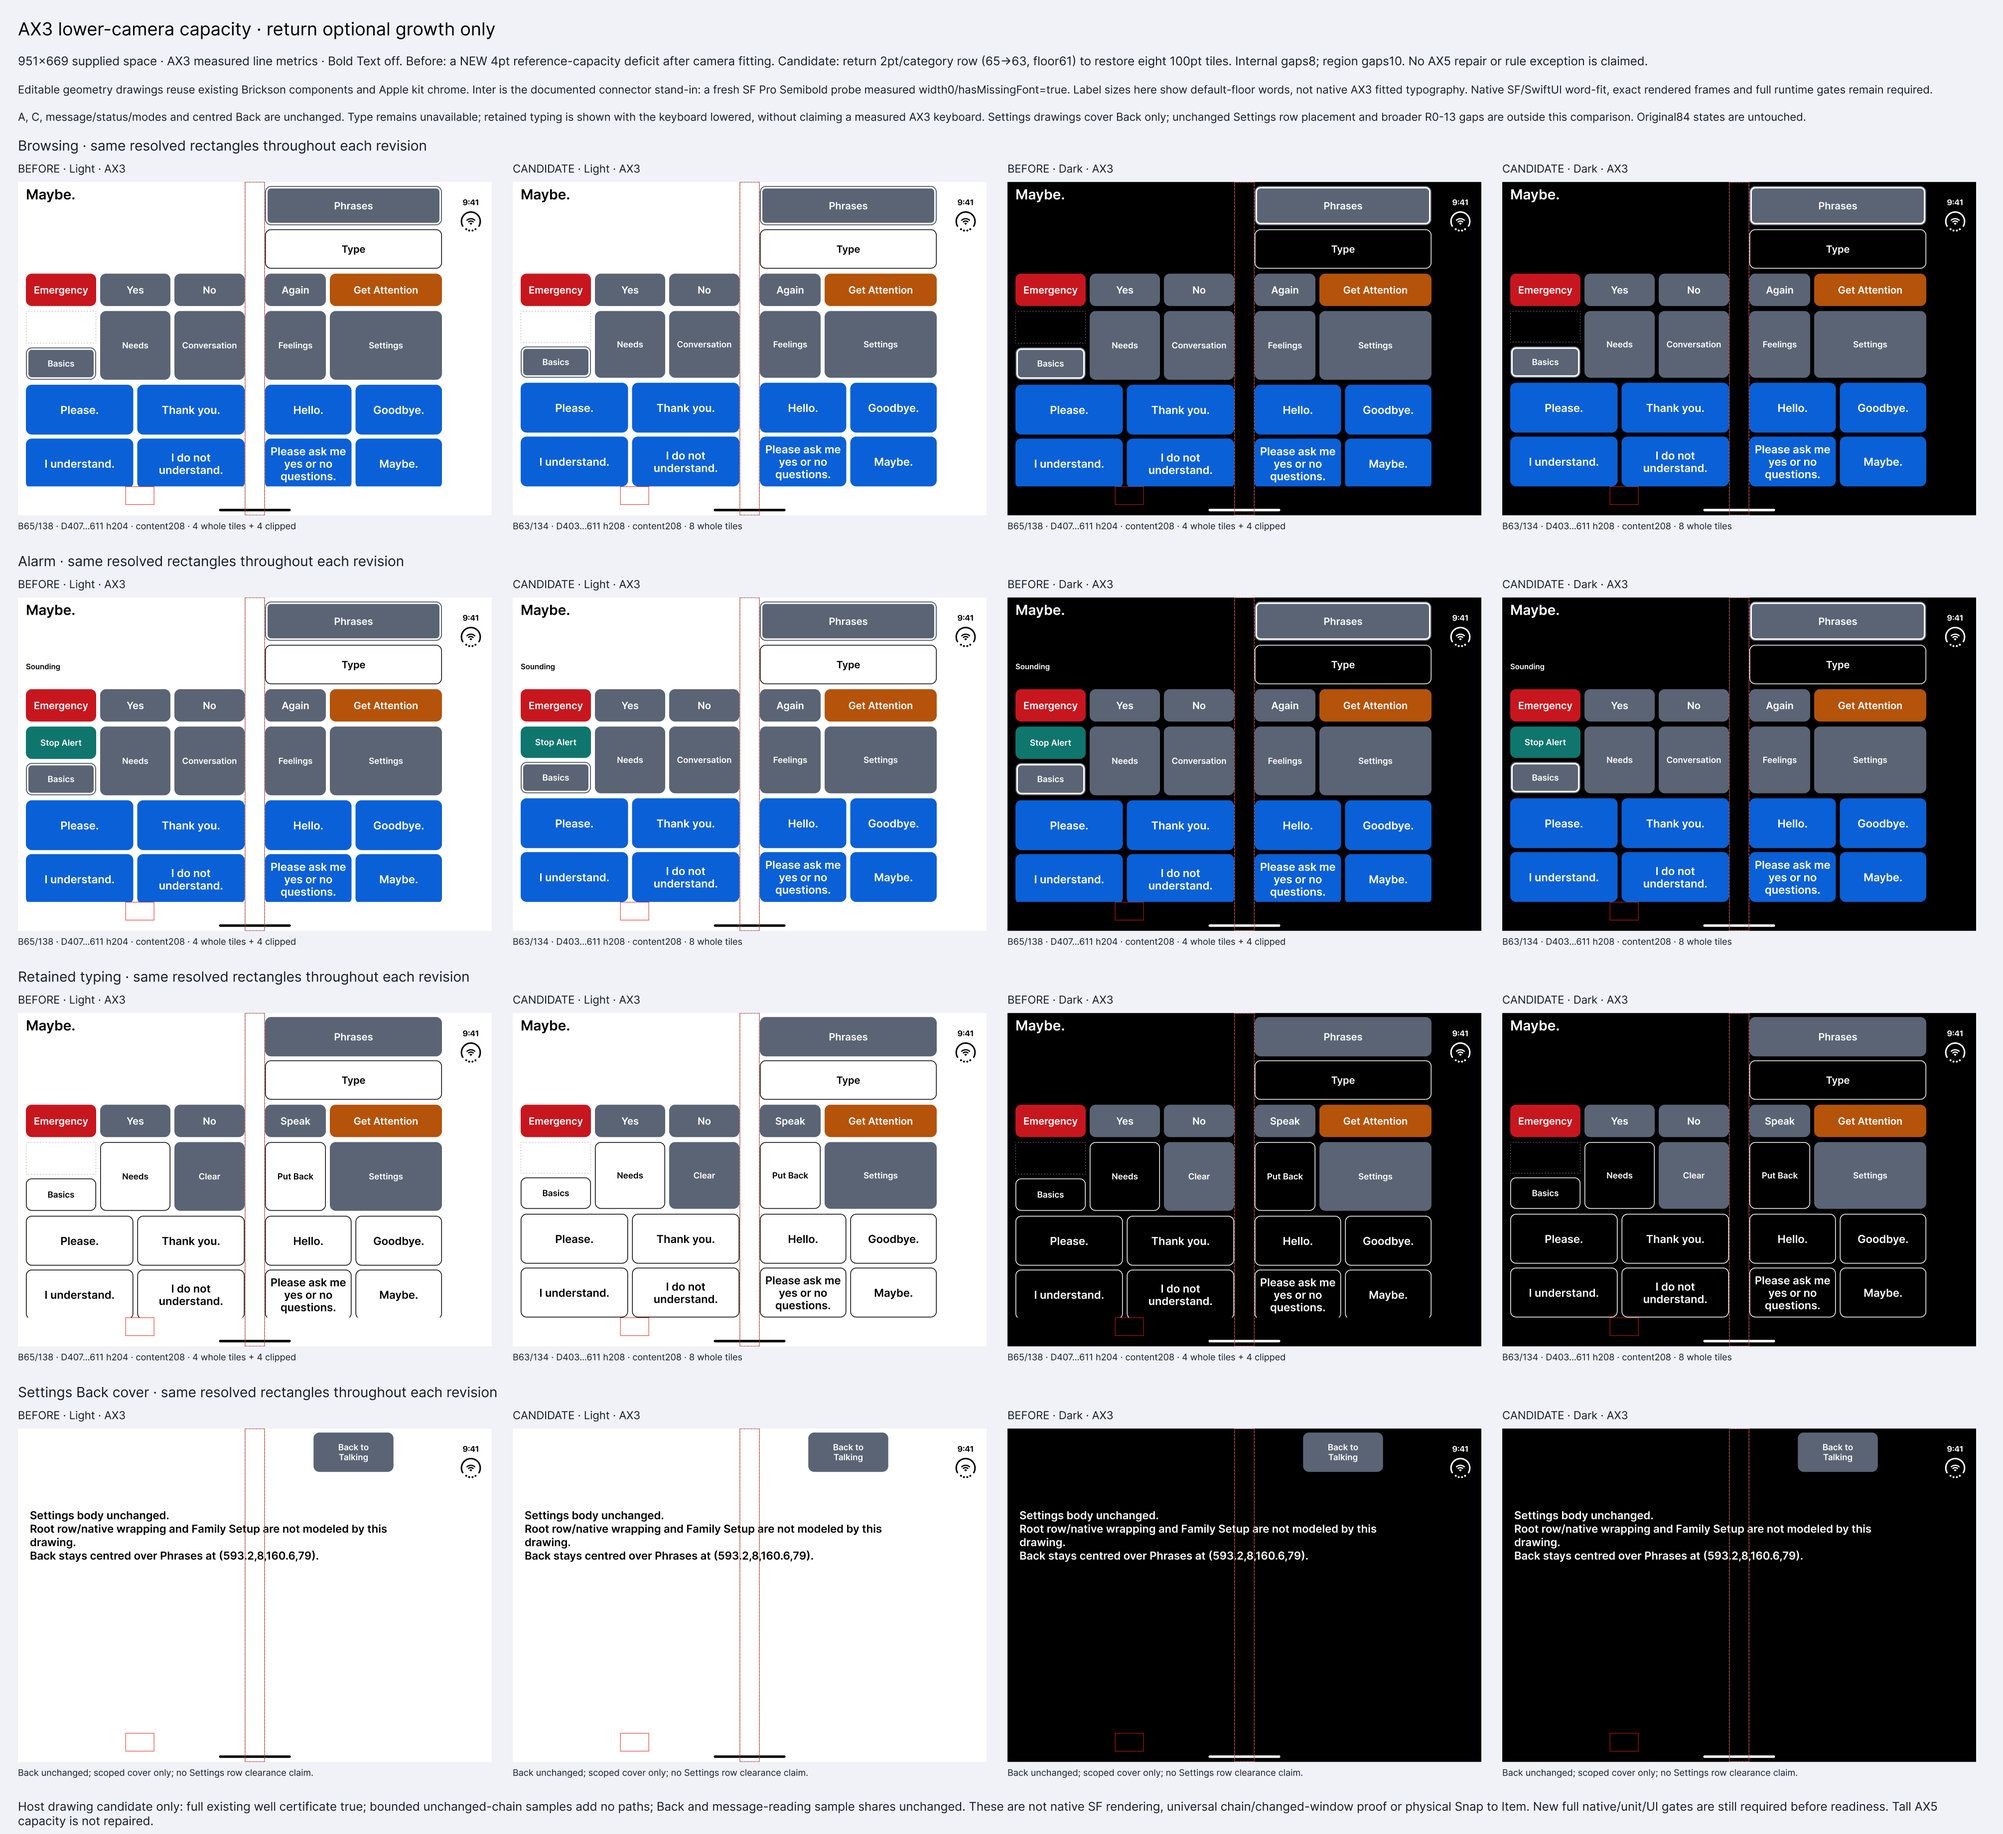
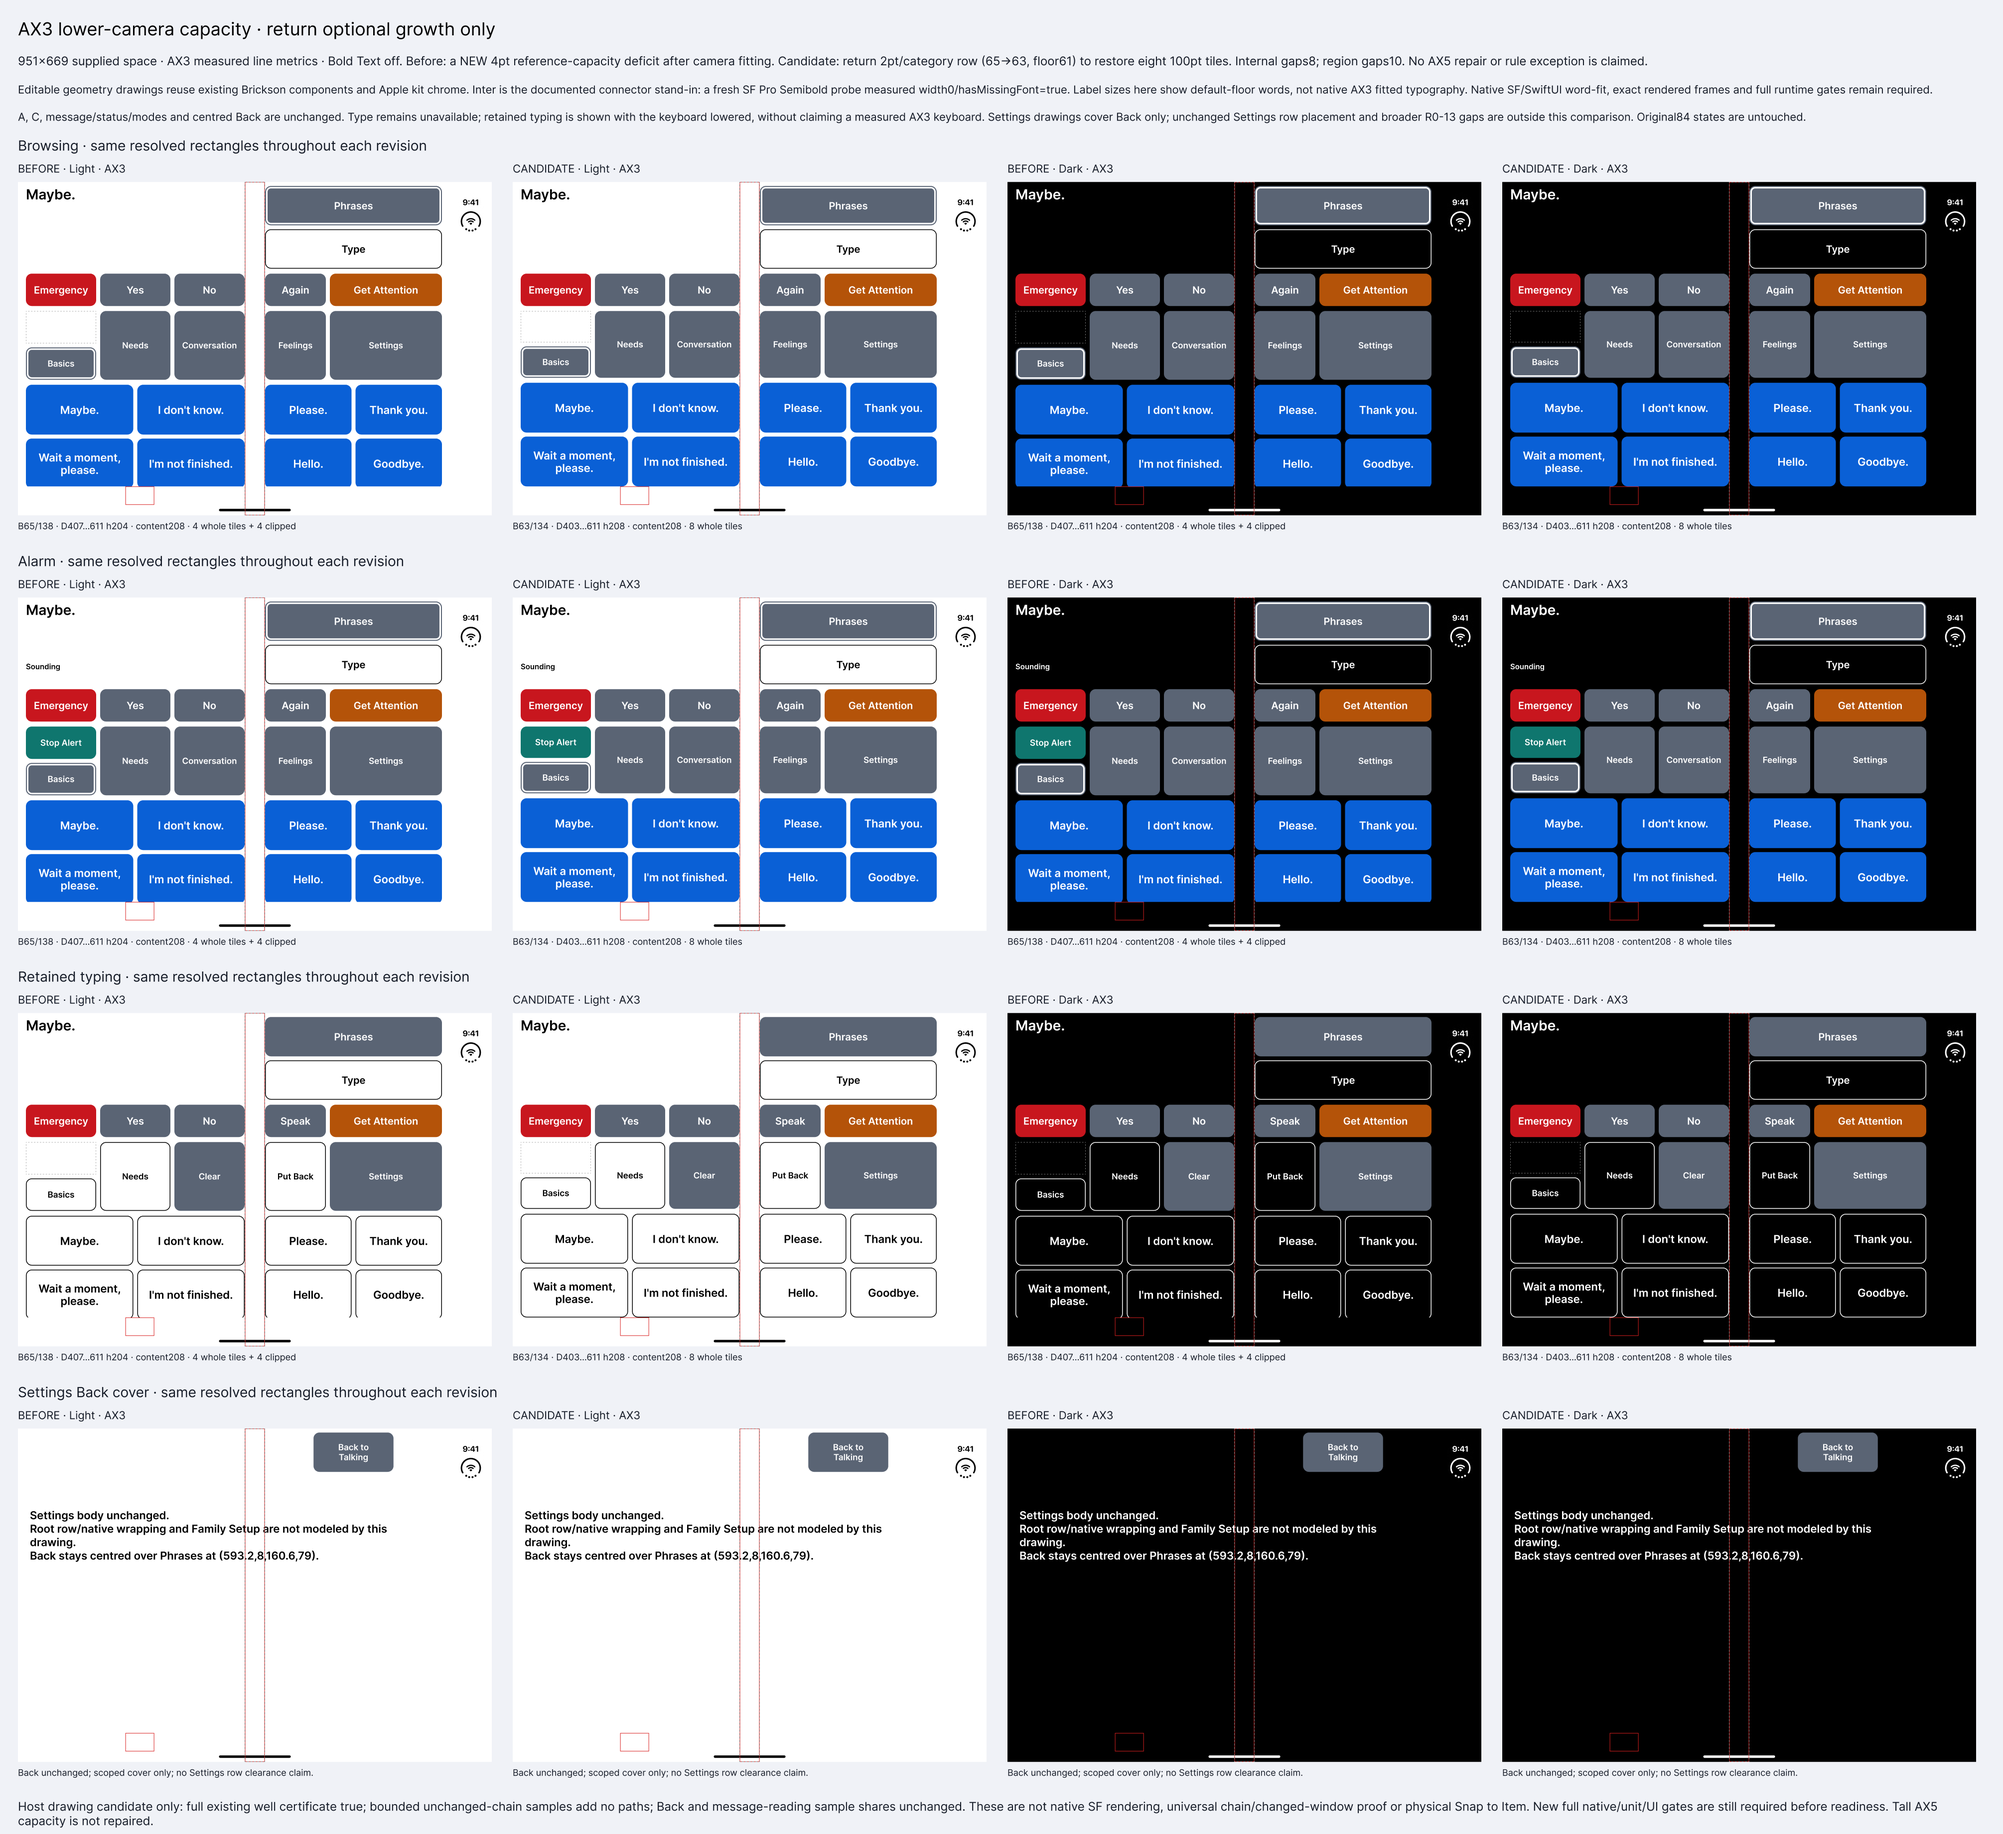
Align AX3 comparison labels with shipped starter order

diff --git a/docs/work/layout-engine.md b/docs/work/layout-engine.md
@@ -779,8 +779,10 @@ light/dark. The existing 84 drawings remain unchanged. The
 [saved render](../evidence/2026-10-25-duo-design/ax3-growth-comparison.png)
 and [manifest/validation](../evidence/2026-10-25-duo-design/ax3-growth-drawings.json)
 record 292 exact target/viewport/tile/Back checks within 0.0002pt,
-333 editable text layers and no image-filled nodes. These are geometry
-drawings using the documented Inter stand-in at default-floor label
+333 editable text layers and no image-filled nodes. The drawings show
+Basics in the exact shipped `StarterPhrases.json` order; the later copy
+correction changed 96 phrase instances with no frame changes. These
+geometry drawings use the documented Inter stand-in at default-floor label
 sizes, not a native AX3 fitted-type sample. A fresh SF Pro connector
 probe measured zero width with `hasMissingFont=true`; no passing SF
 typography check is claimed. Apple kit chrome and existing palette

diff --git a/docs/log/2026-10-25-duo-fold-design.md b/docs/log/2026-10-25-duo-fold-design.md
@@ -627,6 +627,14 @@ aliased gray tokens and missing dark chrome context; only these new
 nodes were corrected to existing palette fallbacks and Apple chrome
 modes, then the revised render was visually inspected.
 
+Before the capacity-retry code commit, a copy review found generic
+word-fit fixtures displayed with Basics selected. Only the new section's
+96 phrase instances were corrected to Basics' exact shipped order in
+`Brickson/Resources/StarterPhrases.json` (source hash and slot order in
+the manifest); all 292 bound rectangles remain unchanged. The corrected
+composition PNG was visually inspected. Original 84 drawings and global
+component sources remain unchanged; no native typography pass is claimed.
+
 SF Pro remains a connector limitation: a fresh Semibold 20 text probe
 returned width 0 and `hasMissingFont=true`. The new drawings explicitly
 use the existing documented Inter stand-in and default-floor label
